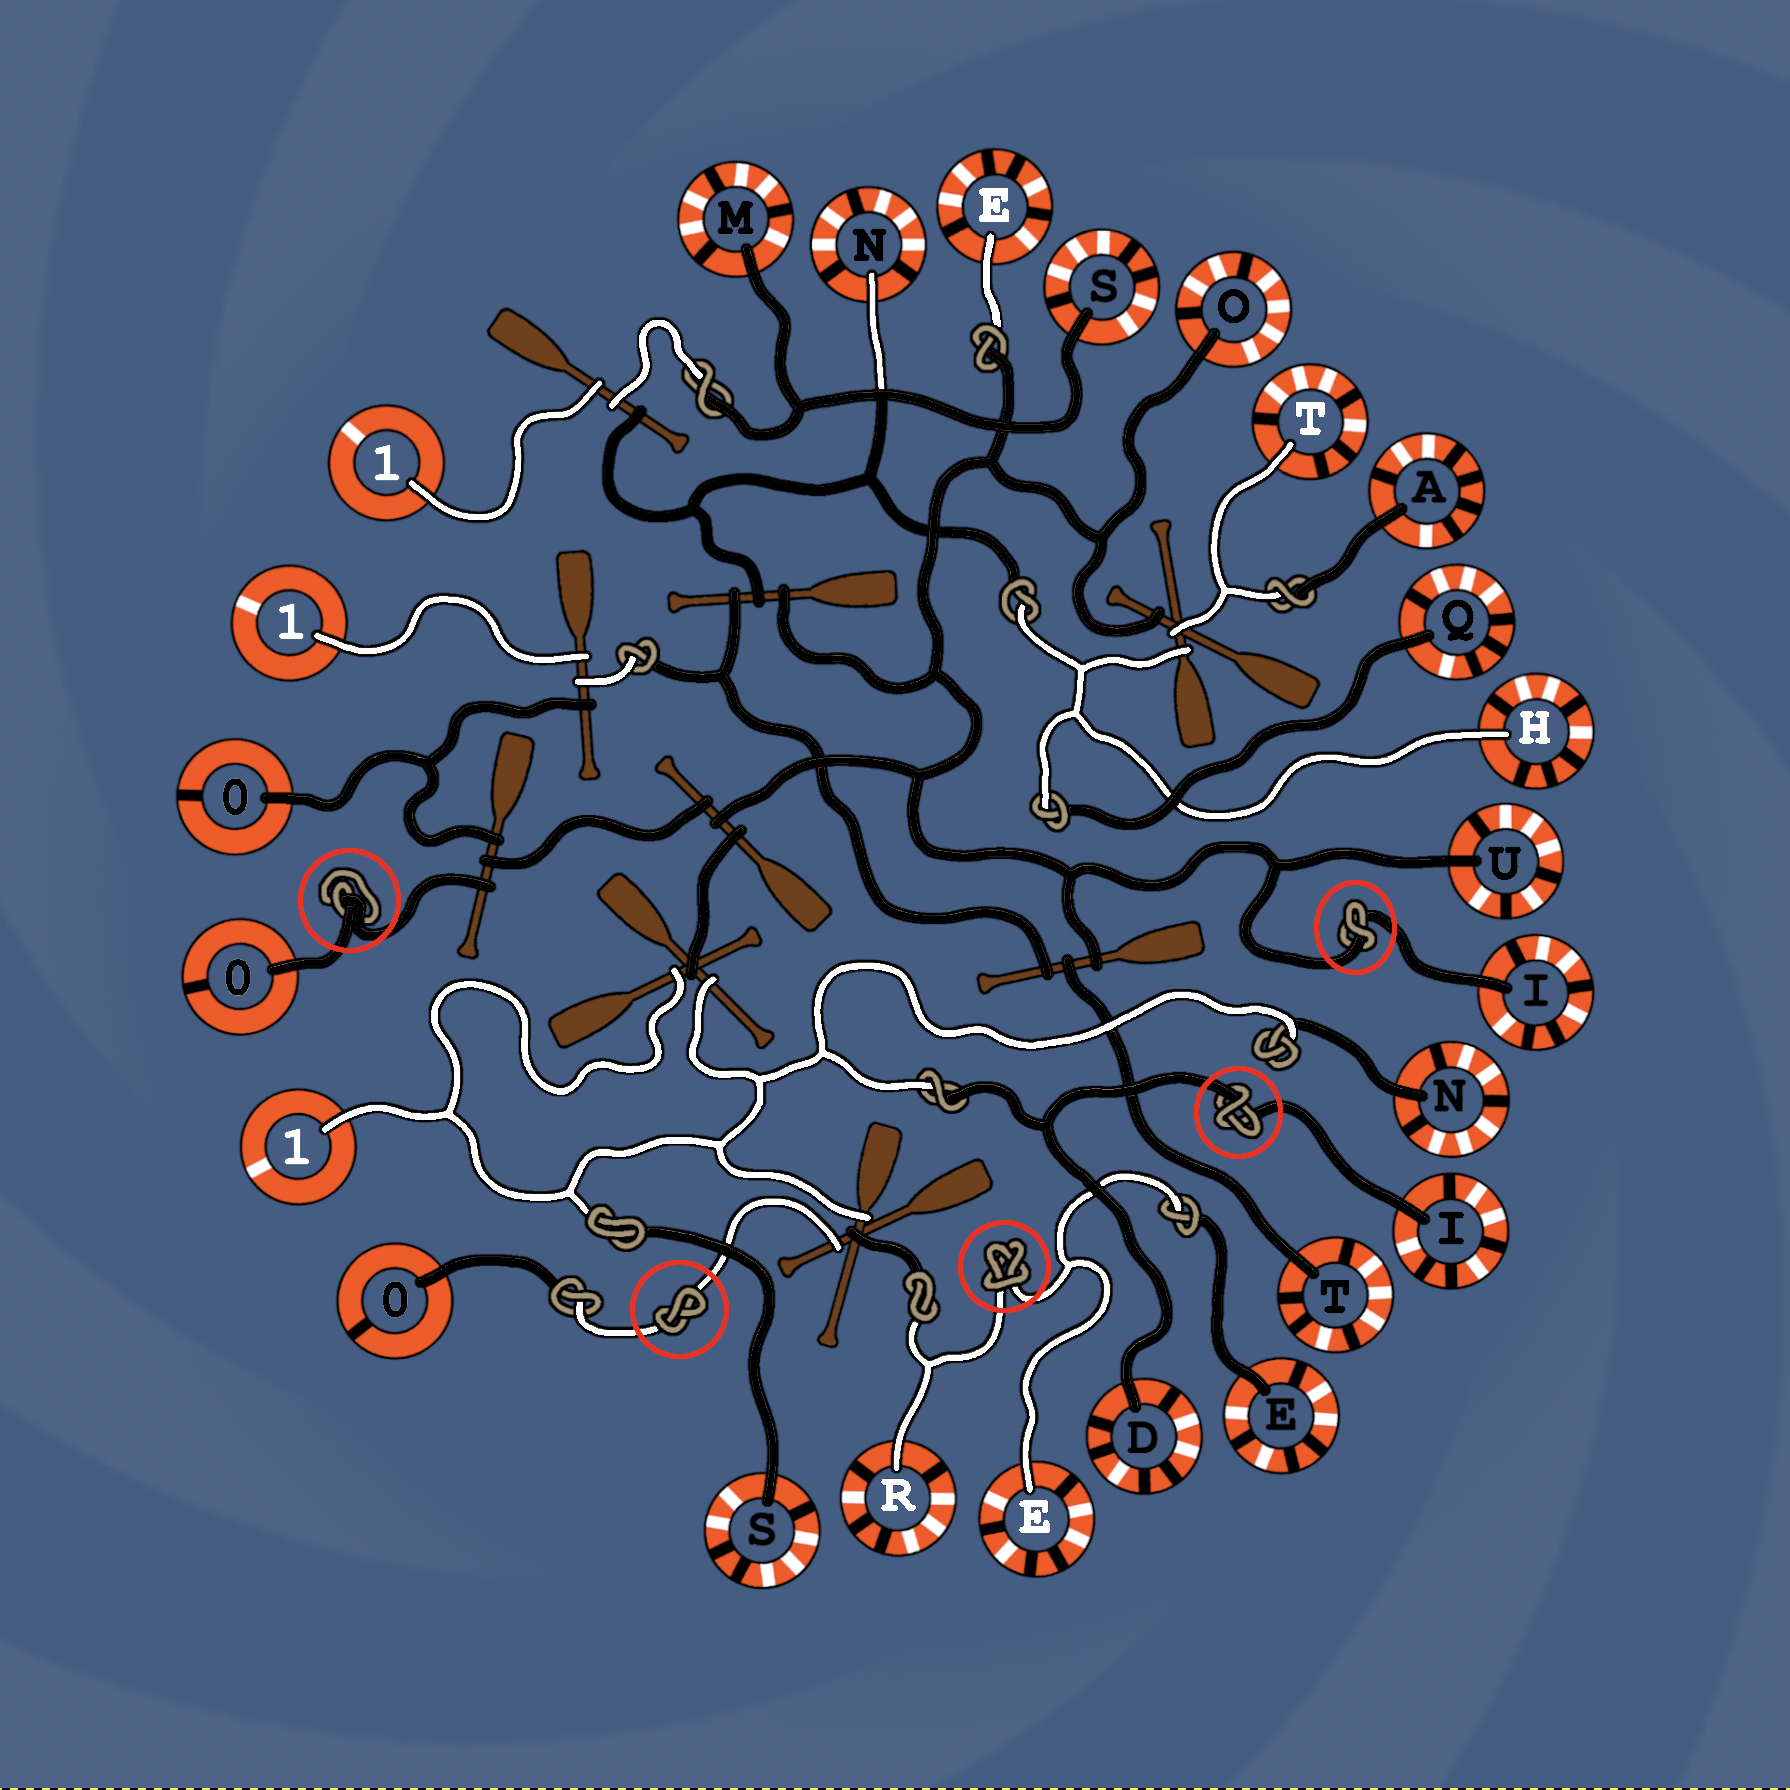
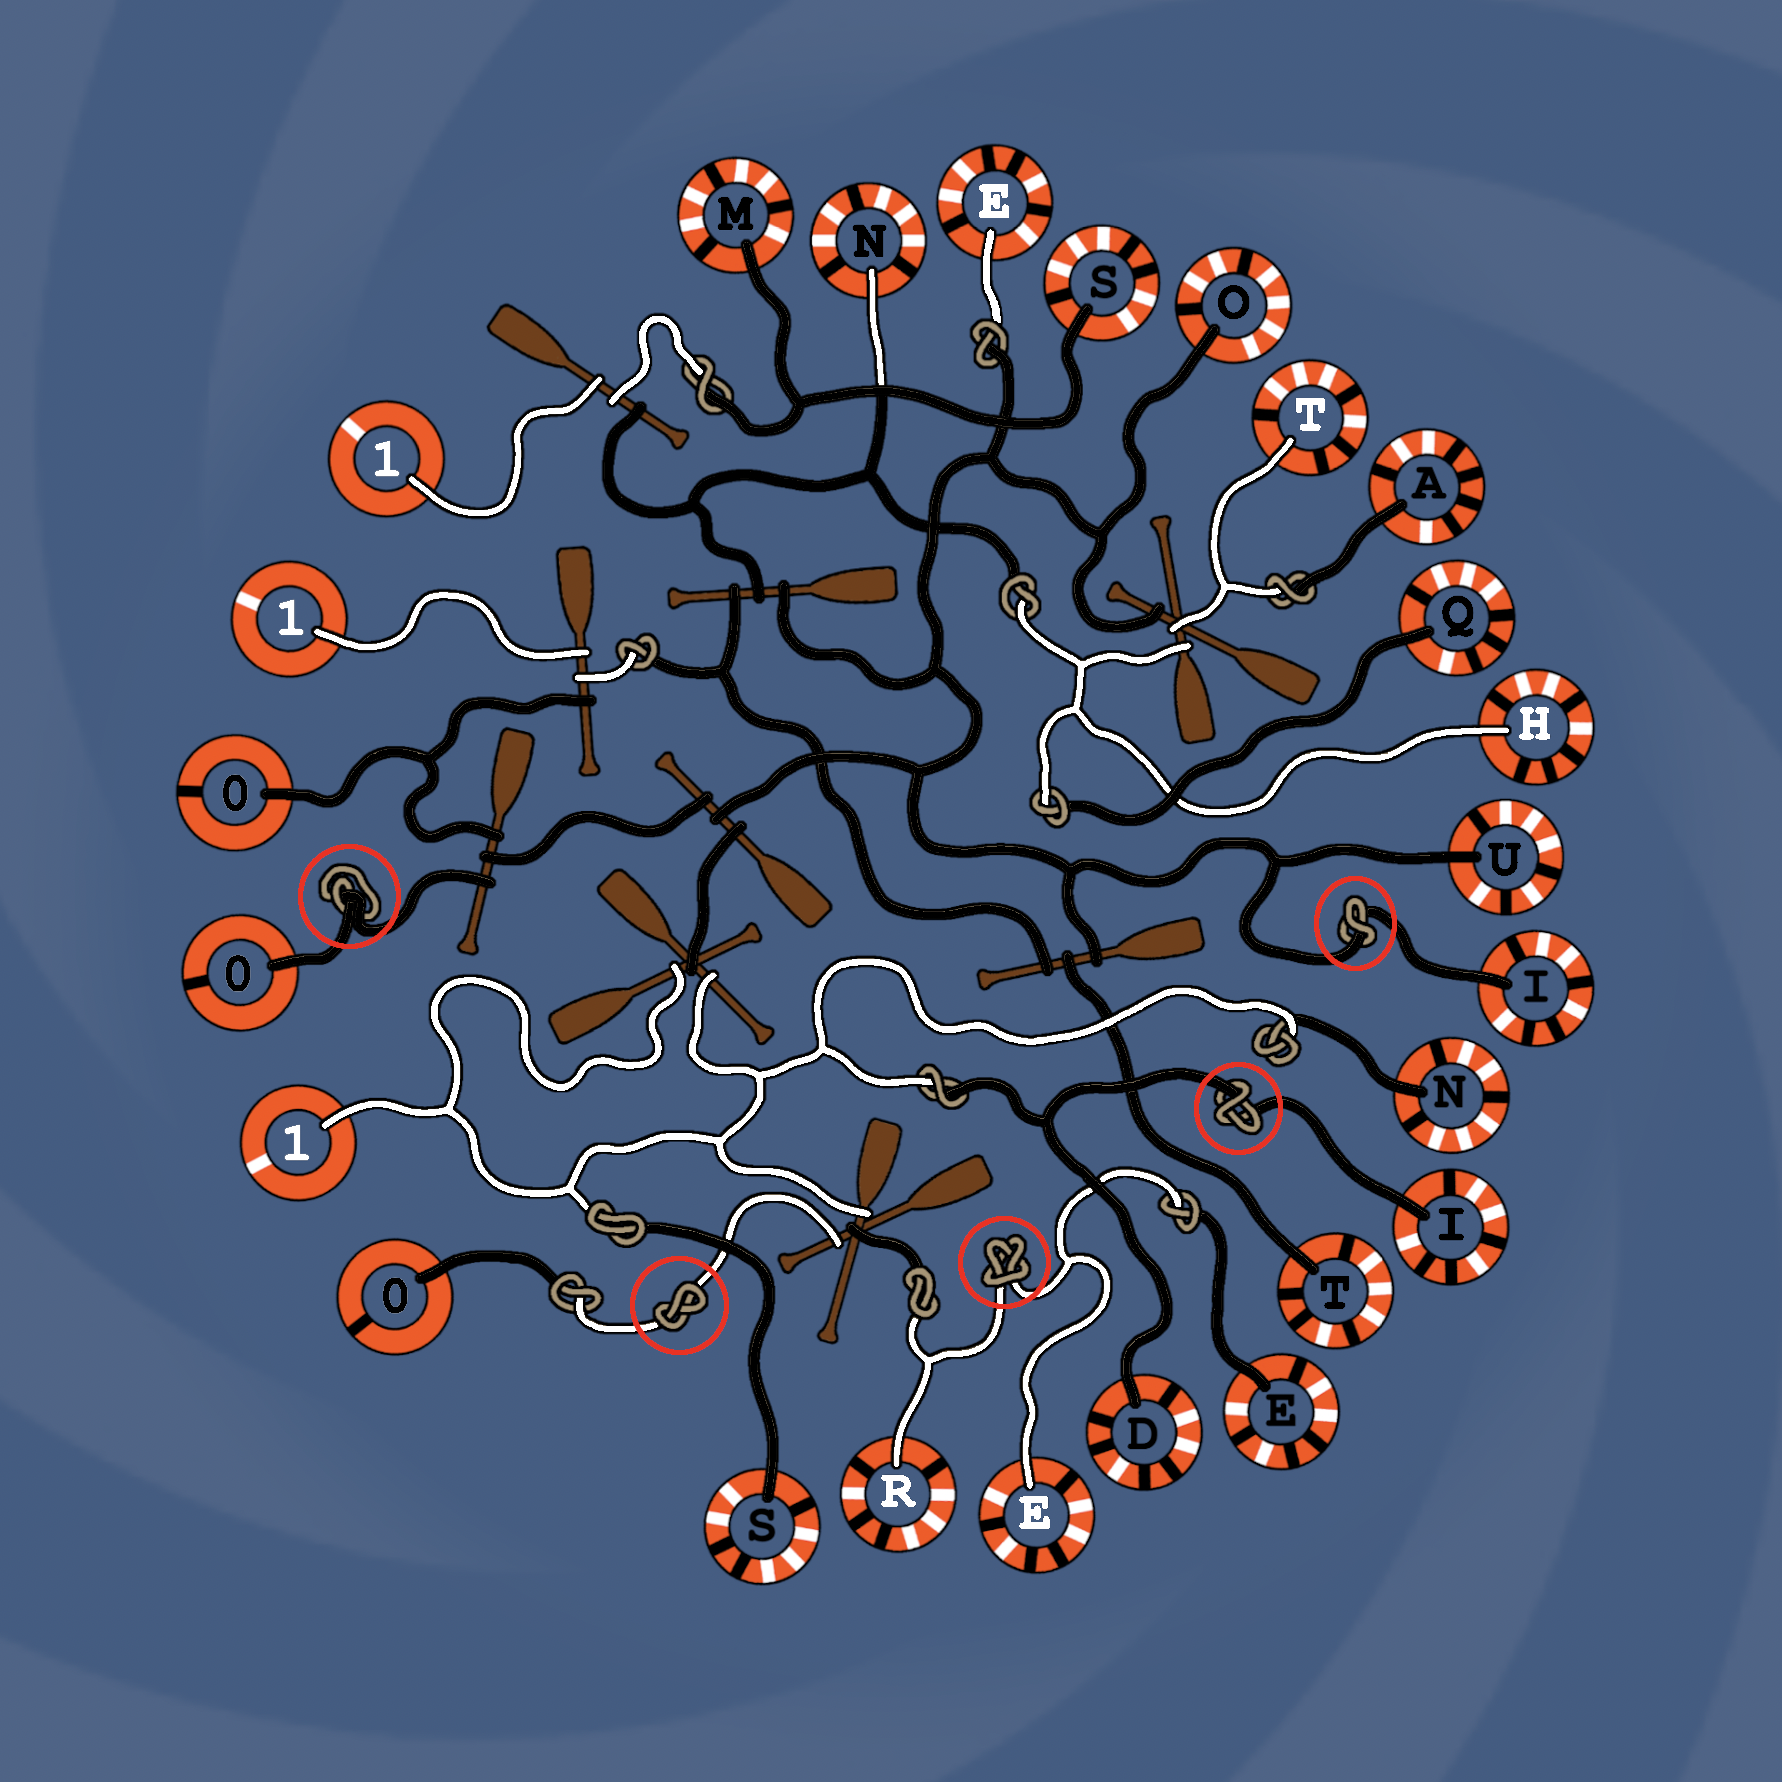
added Maelstrom

diff --git a/_puzzles/_site/maelstrom-ether.html b/_puzzles/_site/maelstrom-ether.html
@@ -1,0 +1,25 @@
+<p>With this puzzle, as with many, the clearest pattern is the place to start. In contrast to the tangle of rope and oars in the puzzle’s core, the life rings around its circumference show clear structure. The rings on the right are each marked with eight stripes which, with white as 1 and black as 0, all match an ASCII letter; clockwise, they read “MNESOTAQHUINITEDER.” The rings on the left, then, are each marked with a single binary bit. These bits are key to making sense of the haphazard ropes at the center of the puzzle.</p>
+
+<p align="center">
+  <img style="float: center; margin: 0px 15px 15px 0px;" src="/maelstromsol1.png" width="100%" />
+</p>
+
+<p>Despite the ropes’ disorder, some key patterns stand out clearly. There are small knots throughout. The oars are sometimes single and sometimes crossed in a pair, and in either case, they’re attached to ropes in the same way, with two ropes on one side and one on the other. No rope ends on anything but an oar or a life ring.</p>
+
+<p>The trick is to realize that the entire puzzle is a logic circuit, as the flavortext hints. Knots correspond to NOT gates, oars are ORs, and the network of ropes are the wires. As is typical with logic circuits, the input bits are on the left, and the logical operations propagate the input rightwards to the output wires. The two inputs to a two-bit gate were on the same side of the oar, lining up with the typical symbols for two-bit logic gates.</p>
+
+<p>With this insight, Hunters could carefully solve the complex circuit, propagating bits gate by gate through the circuit until each lettered life ring is given either a zero or a one. Hunters who successfully did this were told that they were wrong: looking at all the letters corresponding to 1’s, as if they were light bulbs that’d been turned on, gave the phrase NOTQUITE. This is shown below; wires carrying 0s are black, and wires carrying 1s are white.</p>
+
+<p align="center">
+  <img style="float: center; margin: 0px 15px 15px 0px;" src="/maelstromsol2.png" width="100%" />
+</p>
+
+<p>The real trick was to also realize that the pairs of crossed oars are XORs, which are different from ORs in that they output 0 if both their inputs are 1s. After noticing this, Hunters worked through the circuit again, getting an output phrase in the same way. If they did this correctly, they still got NOTQUITE, in almost the same way.</p>
+
+<p>The real real trick was to also <em>also</em> realize that some of the knots are fake. Five of the knots are actually unknots - they’d come undone if you pulled on them. All the other knots are overhand knots.</p>
+
+<p>Those who ignored the decoy knots but didn’t use XORs also got NOTQUITE. It was only when Hunters worked through the circuit with both tricks in mind that they wound up with ETHER, the answer to Maelstrom. The final circuit, with fake knots circled, is below.</p>
+
+<p align="center">
+  <img style="float: center; margin: 0px 15px 15px 0px;" src="/maelstromsol3.png" width="100%" />
+</p>

diff --git a/_puzzles/_site/mining-flammable.html b/_puzzles/_site/mining-flammable.html
@@ -1,0 +1,19 @@
+<p>The flavor text hints at different font names, with the final instruction referencing wingdings. In the block below, the coherent writing matches wingdings text letter by letter. For example, “RAIN” corresponded to a raindrop, wingdings for S, and “LEFTIST APPROVINGS” translated to a finger pointing left and a thumbs up, wingdings for EC. Fully translated, the wingdings spell “START ABOVE XS FOLLOW DIRECTIONS &amp; LOOK ABOVE ENDPO-INTS.”</p>
+
+<p align="center">
+  <img style="float: center; margin: 0px 15px 15px 0px;" src="/miningsol1.png" width="100%" />
+</p>
+
+<p>Hunters needed to find all of the instances of the letter X and look to the letter above it. These letters were all E, F or G, which in wingdings are hands pointing left, right or up respectively. The next letter in the direction indicated was another direction in wingdings. These paths could all be followed hitting only E, F, G, and H, hands pointing in the four directions, until reaching an I, translating in wingdings to a hand making a stop gesture. The paths and a detailed example are shown below.</p>
+
+<p align="center">
+  <img src="/miningsol2.png" width="100%" />
+</p>
+
+<p align="center">
+  <img src="/miningsol3.png" width="50%" alt="" />
+</p>
+
+<!-- <img src="/miningsol3.png" width="50%" class="align-center" alt=""/> -->
+
+<p>As in the instructions, taking the letter above the I at each path’s end gave the answer “FLAMMABLE”.</p>

diff --git a/_puzzles/_site/addersmultiplying-lemons.html b/_puzzles/_site/addersmultiplying-lemons.html
@@ -1,0 +1,11 @@
+<p>Though at first glance the snakes seem haphazardly arranged, there’s one key regularity. Wherever snakes cross, they cross perpendicular to each other, with the snakes either vertical and horizontal or 45 degrees rotated. The crossings all indicate either addition or multiplication signs, and each snake is an equation.</p>
+
+<p>To read off the math, Hunters had to start with the head. Every snake has a different number of stripes near its head, giving both the order of the snakes and their values in the math. A snake’s number sentence also started with the number by its head. Then, starting with the head and reading towards the tail, every crossing added an operation and another integer to the equation, which could then be evaluated, order of operations considered.</p>
+
+<p>The calculation for snake zero is shown below.</p>
+
+<p align="center">
+   <img src="/addersmultiplyingsol.png" width="80%" />
+</p>
+
+<p>In order, the six snakes gave 12, 5, 13, 15, 14, and 19, which, mapping A to 1 and Z to 26, translates to “LEMONS”, the final answer.</p>

diff --git a/_puzzles/_site/forestson-air.html b/_puzzles/_site/forestson-air.html
@@ -1,0 +1,7 @@
+<p>The bunches of three words around the outside of the puzzle all have a third word they naturally pair with to form a common word or phrase, considering only how they sound.  For example, RECORDER, SCOTCH and WORM all match with TAPE to form TAPE RECORDER, SCOTCH TAPE and TAPEWORM, while BEST, GOOD and POLAR all match with BUY/BI/BYE to form BEST BUY, GOODBYE, and BIPOLAR.  The puzzle is structured like a fractal: you can do the same thing to work further inwards.  For example, TAPE, AQUA and CON match with DUCT to form DUCT TAPE, AQUEDUCT and CONDUCT.</p>
+
+<p align="center">
+  <img src="/forestsonsol.png" width="70%" />
+</p>
+
+<p>The answer in the heart of the puzzle is AIR.  In retrospect, ERE, ERR or E’ER could also work, so the puzzle’s a little ambiguous, though the AIR spelling is used in AIR DUCT, AIRBALL and AIRPLANE.</p>

diff --git a/_puzzles/_site/topology-light.html b/_puzzles/_site/topology-light.html
@@ -1,0 +1,9 @@
+<p>This clue uses every letter of the alphabet at least once. That’s for a simple reason: each letter is made of a unique network of nodes and lines (a graph). To find the solution, solvers had to break the word ANSWER into its component parts, each of which is a graph, and find the letters in the puzzle’s text whose graphs match them. As the clue states, form is irrelevant - all 26 letter graphs can be bent and twisted while still uniquely mapping to the same letter.</p>
+
+<p>To demonstrate, here are the first two letters of the solution:</p>
+
+<p align="center">
+  <img src="/topologysol.png" width="70%" />
+</p>
+
+<p>Doing this for all the parts of the word ANSWER gives OPPOSITEOFDARK. The answer, then, was LIGHT.</p>

diff --git a/_puzzles/_site/transit-tardigrade.html b/_puzzles/_site/transit-tardigrade.html
@@ -1,0 +1,13 @@
+<p>As the hint and graphic suggest, the first step in solving this puzzle was to untangle the map, treating loops as flexible string. Doing that gave something like this:</p>
+
+<p align="center">
+  <img src="/transitsol1.png" width="70%" />
+</p>
+
+<p>This looks a lot like the Olympics logo, which makes the right orientation clear. Each word, it turns out, maps to one Olympic sport; the hard ones all turn up with a good google search. Using the official Olympic names, the sports are as follows:</p>
+
+<p align="center">
+  <img src="/transitsol2.png" width="70%" />
+</p>
+
+<p>The first letter of each sport, when read in ring order with the major-stop dot before the minor-stop dot, spells “TARDIGRADE.”</p>

diff --git a/_puzzles/_site/flags-world.html b/_puzzles/_site/flags-world.html
@@ -1,0 +1,13 @@
+<p>Following the poem, the first step in solving this was to take find the top-level domain of each country whose flag was shown.  They’re shown below.</p>
+
+<p align="center">
+  <img src="/flagssol1.png" width="100%" />
+</p>
+
+<p>Plotting the sequences above - on a periodic table instead of a map - gives the following:</p>
+
+<p align="center">
+  <img src="/flagssol2.png" width="100%" />
+</p>
+
+<p>The paths, in order, spell WORLD.</p>

diff --git a/_puzzles/_site/maelstrom-notquite.html b/_puzzles/_site/maelstrom-notquite.html
@@ -1,0 +1,1 @@
+<p>Congratulations! You’re not quite right, which is a lot more right than you started. Good luck in finding the true solution.</p>

diff --git a/_puzzles/_site/addersmultiplying.html b/_puzzles/_site/addersmultiplying.html
@@ -1,0 +1,3 @@
+<p align="center">
+<img src="/addersmultiplying.png" width="80%" />
+</p>

diff --git a/_puzzles/_site/maelstrom.html b/_puzzles/_site/maelstrom.html
@@ -1,0 +1,3 @@
+<p align="center">
+<img src="/maelstrom.png" width="100%" />
+</p>

diff --git a/_puzzles/_site/forestson.html b/_puzzles/_site/forestson.html
@@ -1,0 +1,3 @@
+<p align="center">
+<img src="/forestson.png" width="70%" />
+</p>

diff --git a/_puzzles/_site/topology.html b/_puzzles/_site/topology.html
@@ -1,0 +1,3 @@
+<p align="center">
+<img src="/topology.jpg" width="100%" />
+</p>
